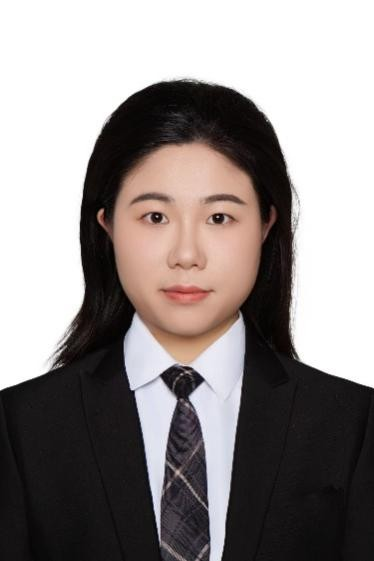
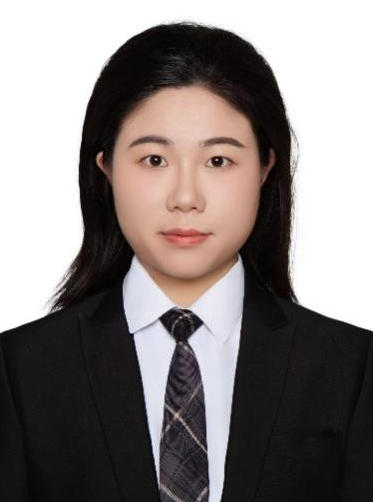
update member's page

Changed region(s): [[0.0, 0.0299, 1.0, 1.0], [0.5603, 0.8367, 0.6193, 0.9861], [0.2654, 0.5378, 0.2949, 0.5677]]

diff --git a/assets/scss/custom.scss b/assets/scss/custom.scss
@@ -229,7 +229,7 @@ body {
 
 
   .person-desc {
-    color: #666666;
+    color: #333333;
     flex: 1;
 
     .wrap-bg {
